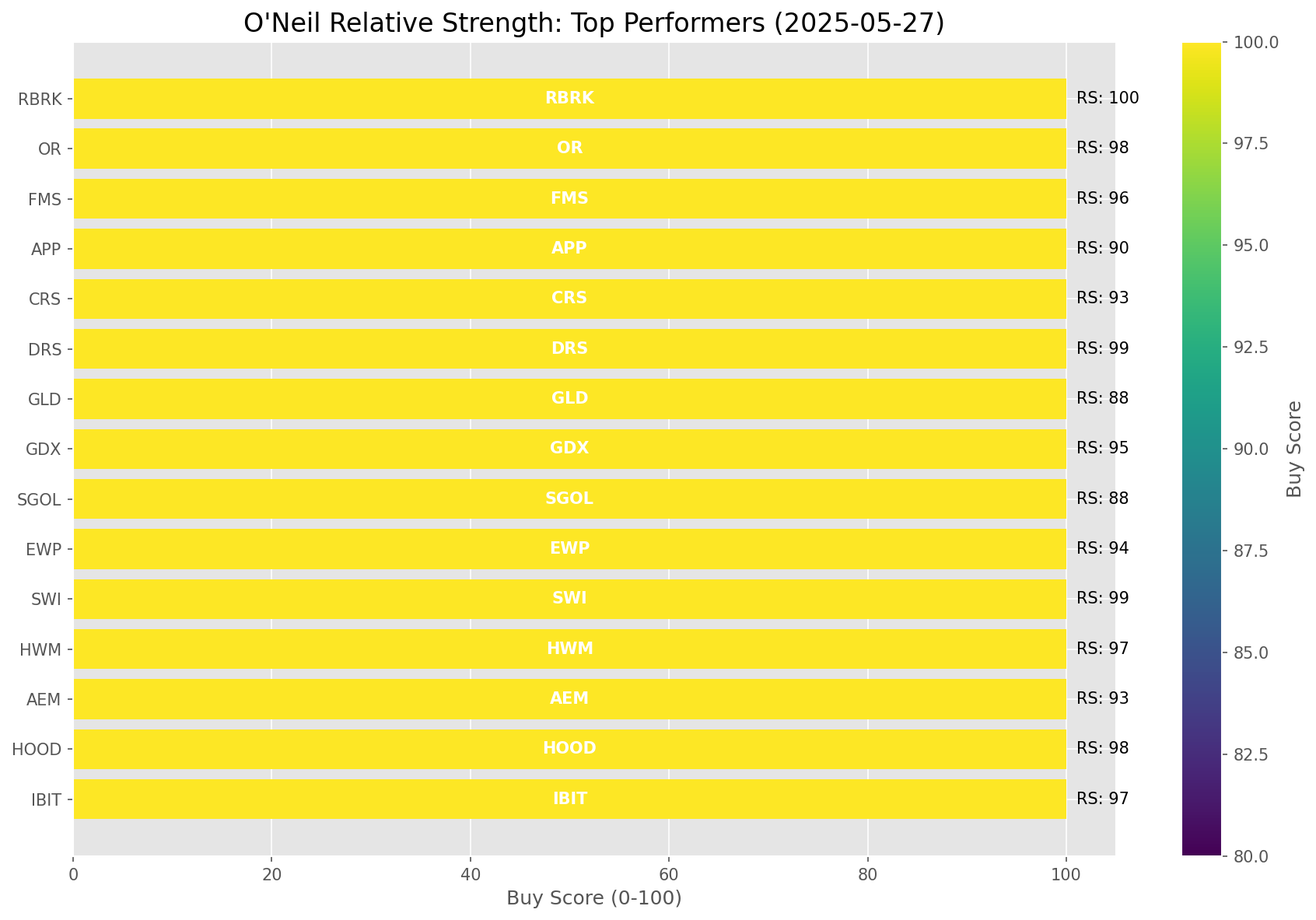
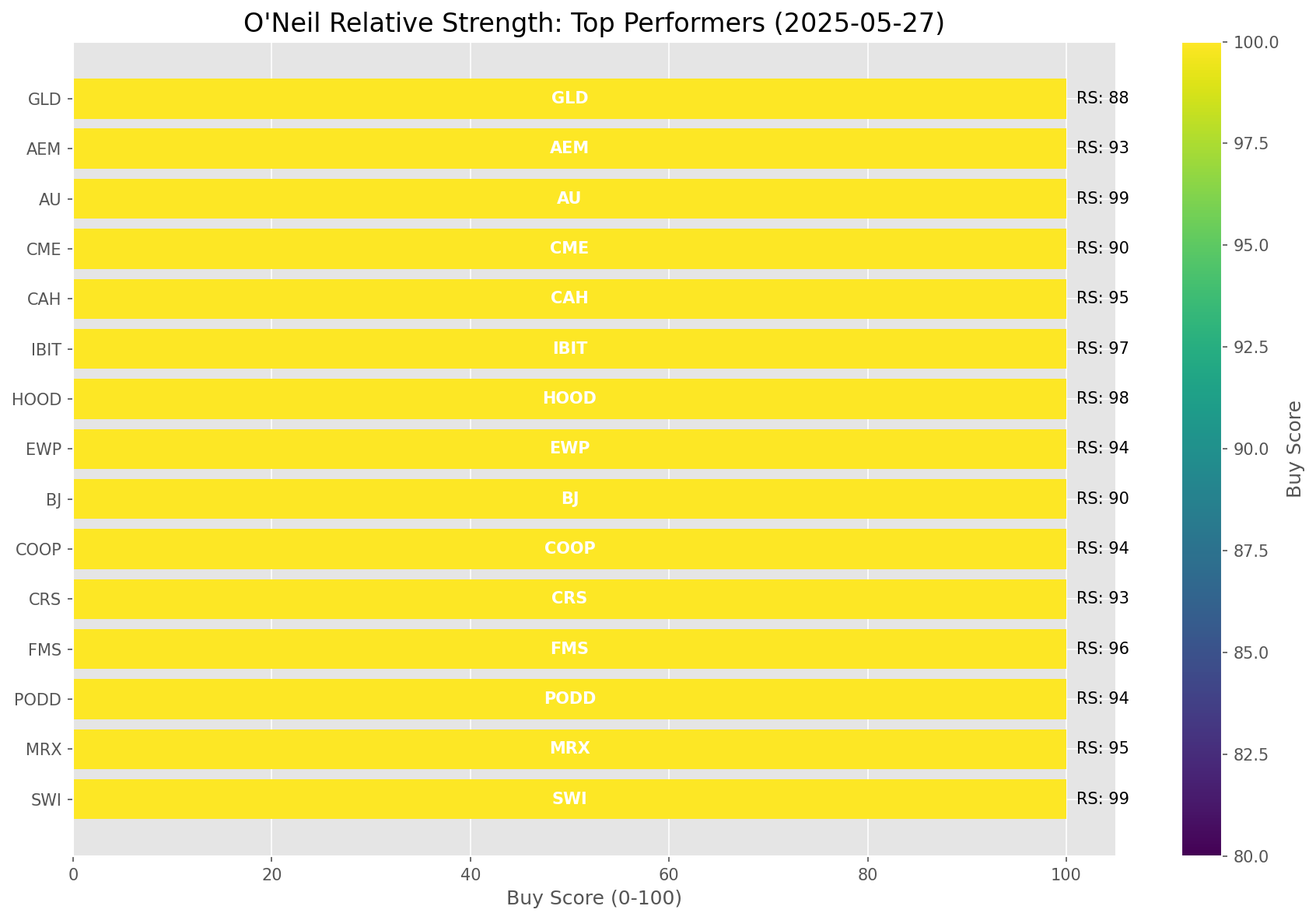
Add market report for 2025-05-27

diff --git a/oneil_relative_strength_report_2025-05-27.md b/oneil_relative_strength_report_2025-05-27.md
@@ -57,11 +57,11 @@ Based on William O'Neil's Relative Strength Methodology
 | [PAVE](https://www.tradingview.com/chart/?symbol=PAVE) | 87.5 | 75.0 | 4.75% | 10d ✓, 50d ✓, 200d ✓ | ↗ | Infrastructure |
 | [SLV](https://www.tradingview.com/chart/?symbol=SLV) | 87.0 | 74.0 | 4.46% | 10d ✓, 50d ✓, 200d ✓ | ↗ | Silver |
 | [ARKK](https://www.tradingview.com/chart/?symbol=ARKK) | 85.0 | 70.0 | 2.82% | 10d ✓, 50d ✓, 200d ✓ | ↗ | Innovation |
-| [XLU](https://www.tradingview.com/chart/?symbol=XLU) | 84.5 | 69.0 | 2.34% | 10d ✓, 50d ✓, 200d ✓ | ↗ | Utilities |
 | [BLOK](https://www.tradingview.com/chart/?symbol=BLOK) | 84.5 | 69.0 | 2.54% | 10d ✓, 50d ✓, 200d ✓ | ↗ | Blockchain & Cryptocurrency |
+| [XLU](https://www.tradingview.com/chart/?symbol=XLU) | 84.5 | 69.0 | 2.34% | 10d ✓, 50d ✓, 200d ✓ | ↗ | Utilities |
 | [AIQ](https://www.tradingview.com/chart/?symbol=AIQ) | 83.5 | 67.0 | 1.75% | 10d ✓, 50d ✓, 200d ✓ | ↗ | Artificial Intelligence & Technology |
-| [IYZ](https://www.tradingview.com/chart/?symbol=IYZ) | 81.5 | 63.0 | 0.50% | 10d ✓, 50d ✓, 200d ✓ | ↗ | Telecommunications |
 | [XLY](https://www.tradingview.com/chart/?symbol=XLY) | 81.5 | 63.0 | 0.62% | 10d ✓, 50d ✓, 200d ✓ | ↗ | Consumer Discretionary |
+| [IYZ](https://www.tradingview.com/chart/?symbol=IYZ) | 81.5 | 63.0 | 0.50% | 10d ✓, 50d ✓, 200d ✓ | ↗ | Telecommunications |
 | [XLP](https://www.tradingview.com/chart/?symbol=XLP) | 81.5 | 63.0 | 0.41% | 10d ✓, 50d ✓, 200d ✓ | ↗ | Consumer Staples |
 | [XLC](https://www.tradingview.com/chart/?symbol=XLC) | 81.0 | 62.0 | 0.31% | 10d ✓, 50d ✓, 200d ✓ | ↗ | Communications |
 | [URA](https://www.tradingview.com/chart/?symbol=URA) | 78.5 | 97.0 | 28.24% | 10d ✓, 50d ✓, 200d ✓ | ↘ | Uranium |
@@ -110,78 +110,78 @@ The following 106 stocks show exceptional relative strength:
 
 | RS Rating | Buy Score | Current Price | Chart | Name | Ticker |
 |-----------|-----------|---------------|-------|------|--------|
-| 100 | 100 | $94.85 | [Chart](https://www.tradingview.com/chart/?symbol=RBRK) | Rubrik, Inc. | RBRK |
-| 100 | 100 | $210.52 | [Chart](https://www.tradingview.com/chart/?symbol=AGX) | Argan, Inc | AGX |
-| 100 | 100 | $38.12 | [Chart](https://www.tradingview.com/chart/?symbol=KTOS) | Kratos Defense & Security Solutions, Inc. | KTOS |
-| 100 | 100 | $23.15 | [Chart](https://www.tradingview.com/chart/?symbol=PRA) | ProAssurance Corporation | PRA |
-| 100 | 100 | $209.00 | [Chart](https://www.tradingview.com/chart/?symbol=DAVE) | Dave Inc. Class A Common Stock | DAVE |
 | 100 | 100 | $110.36 | [Chart](https://www.tradingview.com/chart/?symbol=SEZL) | Sezzle Inc. Common Stock | SEZL |
-| 99 | 100 | $42.50 | [Chart](https://www.tradingview.com/chart/?symbol=DRS) | Leonardo DRS, Inc. Common Stock | DRS |
+| 100 | 100 | $209.00 | [Chart](https://www.tradingview.com/chart/?symbol=DAVE) | Dave Inc. Class A Common Stock | DAVE |
+| 100 | 100 | $38.12 | [Chart](https://www.tradingview.com/chart/?symbol=KTOS) | Kratos Defense & Security Solutions, Inc. | KTOS |
+| 100 | 100 | $210.52 | [Chart](https://www.tradingview.com/chart/?symbol=AGX) | Argan, Inc | AGX |
+| 100 | 100 | $94.85 | [Chart](https://www.tradingview.com/chart/?symbol=RBRK) | Rubrik, Inc. | RBRK |
+| 100 | 100 | $23.15 | [Chart](https://www.tradingview.com/chart/?symbol=PRA) | ProAssurance Corporation | PRA |
 | 99 | 100 | $43.10 | [Chart](https://www.tradingview.com/chart/?symbol=AU) | AngloGold Ashanti plc | AU |
-| 99 | 100 | $471.51 | [Chart](https://www.tradingview.com/chart/?symbol=GEV) | GE Vernova Inc. | GEV |
+| 99 | 100 | $42.50 | [Chart](https://www.tradingview.com/chart/?symbol=DRS) | Leonardo DRS, Inc. Common Stock | DRS |
 | 99 | 100 | $85.43 | [Chart](https://www.tradingview.com/chart/?symbol=RBLX) | Roblox Corporation | RBLX |
+| 99 | 100 | $471.51 | [Chart](https://www.tradingview.com/chart/?symbol=GEV) | GE Vernova Inc. | GEV |
 | 98 | 100 | $66.02 | [Chart](https://www.tradingview.com/chart/?symbol=HOOD) | Robinhood Markets, Inc. Class A Common Stock | HOOD |
-| 98 | 100 | $24.86 | [Chart](https://www.tradingview.com/chart/?symbol=OR) | OR Royalties Inc. | OR |
 | 98 | 100 | $19.78 | [Chart](https://www.tradingview.com/chart/?symbol=SPNT) | SiriusPoint Ltd. | SPNT |
+| 98 | 100 | $24.86 | [Chart](https://www.tradingview.com/chart/?symbol=OR) | OR Royalties Inc. | OR |
 | 98 | 100 | $163.90 | [Chart](https://www.tradingview.com/chart/?symbol=PLMR) | Palomar Holdings, Inc. Common stock | PLMR |
 | 98 | 100 | $72.40 | [Chart](https://www.tradingview.com/chart/?symbol=ULS) | UL Solutions Inc. | ULS |
 | 98 | 100 | $312.91 | [Chart](https://www.tradingview.com/chart/?symbol=CVNA) | Carvana Co. | CVNA |
 | 98 | 100 | $56.91 | [Chart](https://www.tradingview.com/chart/?symbol=SHLD) | Global X Defense Tech ETF | SHLD |
 | 97 | 100 | $62.50 | [Chart](https://www.tradingview.com/chart/?symbol=IBIT) | iShares Bitcoin Trust ETF | IBIT |
-| 97 | 100 | $169.69 | [Chart](https://www.tradingview.com/chart/?symbol=HWM) | Howmet Aerospace Inc. | HWM |
 | 97 | 100 | $31.14 | [Chart](https://www.tradingview.com/chart/?symbol=HODL) | VanEck Bitcoin ETF | HODL |
-| 97 | 100 | $165.24 | [Chart](https://www.tradingview.com/chart/?symbol=SE) | Sea Limited American Depositary Shares, each representing one Class A Ordinary Share | SE |
-| 97 | 100 | $19.44 | [Chart](https://www.tradingview.com/chart/?symbol=MIR) | Mirion Technologies, Inc. | MIR |
-| 97 | 100 | $59.90 | [Chart](https://www.tradingview.com/chart/?symbol=BITB) | Bitwise Bitcoin ETF | BITB |
 | 97 | 100 | $746.08 | [Chart](https://www.tradingview.com/chart/?symbol=AXON) | Axon Enterprise, Inc. Common Stock | AXON |
+| 97 | 100 | $59.90 | [Chart](https://www.tradingview.com/chart/?symbol=BITB) | Bitwise Bitcoin ETF | BITB |
+| 97 | 100 | $165.24 | [Chart](https://www.tradingview.com/chart/?symbol=SE) | Sea Limited American Depositary Shares, each representing one Class A Ordinary Share | SE |
+| 97 | 100 | $169.69 | [Chart](https://www.tradingview.com/chart/?symbol=HWM) | Howmet Aerospace Inc. | HWM |
+| 97 | 100 | $19.44 | [Chart](https://www.tradingview.com/chart/?symbol=MIR) | Mirion Technologies, Inc. | MIR |
 | 97 | 100 | $48.73 | [Chart](https://www.tradingview.com/chart/?symbol=BTC) | Grayscale Bitcoin Mini Trust ETF | BTC |
 | 96 | 100 | $29.49 | [Chart](https://www.tradingview.com/chart/?symbol=FMS) | Fresenius Medical Care AG | FMS |
 | 96 | 100 | $63.72 | [Chart](https://www.tradingview.com/chart/?symbol=GDXJ) | VanEck Junior Gold Miners ETF | GDXJ |
-| 96 | 100 | $35.76 | [Chart](https://www.tradingview.com/chart/?symbol=UTI) | Universal Technical Institute, Inc. | UTI |
 | 96 | 100 | $21.56 | [Chart](https://www.tradingview.com/chart/?symbol=TFPM) | Triple Flag Precious Metals Corp. | TFPM |
+| 96 | 100 | $35.76 | [Chart](https://www.tradingview.com/chart/?symbol=UTI) | Universal Technical Institute, Inc. | UTI |
 | 96 | 100 | $38.50 | [Chart](https://www.tradingview.com/chart/?symbol=AS) | Amer Sports, Inc. | AS |
-| 95 | 100 | $49.77 | [Chart](https://www.tradingview.com/chart/?symbol=GDX) | VanEck Gold Miners ETF | GDX |
-| 95 | 100 | $139.42 | [Chart](https://www.tradingview.com/chart/?symbol=UGL) | ProShares Ultra Gold | UGL |
 | 95 | 100 | $46.11 | [Chart](https://www.tradingview.com/chart/?symbol=MRX) | Marex Group plc Ordinary Shares | MRX |
-| 95 | 100 | $32.03 | [Chart](https://www.tradingview.com/chart/?symbol=PRDO) | Perdoceo Education Corporation | PRDO |
 | 95 | 100 | $154.68 | [Chart](https://www.tradingview.com/chart/?symbol=CAH) | Cardinal Health, Inc. | CAH |
+| 95 | 100 | $49.77 | [Chart](https://www.tradingview.com/chart/?symbol=GDX) | VanEck Gold Miners ETF | GDX |
 | 95 | 100 | $1211.57 | [Chart](https://www.tradingview.com/chart/?symbol=NFLX) | NetFlix Inc | NFLX |
+| 95 | 100 | $32.03 | [Chart](https://www.tradingview.com/chart/?symbol=PRDO) | Perdoceo Education Corporation | PRDO |
 | 95 | 100 | $85.52 | [Chart](https://www.tradingview.com/chart/?symbol=WPM) | Wheaton Precious Metals Corp. Common Stock | WPM |
-| 94 | 100 | $43.53 | [Chart](https://www.tradingview.com/chart/?symbol=EWP) | iShares MSCI Spain ETF | EWP |
+| 95 | 100 | $139.42 | [Chart](https://www.tradingview.com/chart/?symbol=UGL) | ProShares Ultra Gold | UGL |
 | 94 | 100 | $326.64 | [Chart](https://www.tradingview.com/chart/?symbol=PODD) | Insulet Corporation | PODD |
 | 94 | 100 | $133.19 | [Chart](https://www.tradingview.com/chart/?symbol=COOP) | Mr. Cooper Group Inc. Common Stock | COOP |
+| 94 | 100 | $43.53 | [Chart](https://www.tradingview.com/chart/?symbol=EWP) | iShares MSCI Spain ETF | EWP |
 | 94 | 100 | $74.20 | [Chart](https://www.tradingview.com/chart/?symbol=WRB) | W.R. Berkley Corporation | WRB |
 | 94 | 100 | $241.78 | [Chart](https://www.tradingview.com/chart/?symbol=GE) | GE Aerospace | GE |
-| 93 | 100 | $116.30 | [Chart](https://www.tradingview.com/chart/?symbol=AEM) | Agnico Eagle Mines Ltd. | AEM |
 | 93 | 100 | $238.37 | [Chart](https://www.tradingview.com/chart/?symbol=CRS) | Carpenter Technology Corp | CRS |
+| 93 | 100 | $116.30 | [Chart](https://www.tradingview.com/chart/?symbol=AEM) | Agnico Eagle Mines Ltd. | AEM |
 | 93 | 100 | $178.68 | [Chart](https://www.tradingview.com/chart/?symbol=RGLD) | Royal Gold Inc | RGLD |
+| 93 | 100 | $64.29 | [Chart](https://www.tradingview.com/chart/?symbol=SLF) | Sun Life Financial Inc. | SLF |
 | 93 | 100 | $101.02 | [Chart](https://www.tradingview.com/chart/?symbol=JCI) | Johnson Controls International plc | JCI |
-| 92 | 100 | $293.39 | [Chart](https://www.tradingview.com/chart/?symbol=COR) | Cencora, Inc. | COR |
-| 92 | 100 | $64.29 | [Chart](https://www.tradingview.com/chart/?symbol=SLF) | Sun Life Financial Inc. | SLF |
-| 92 | 100 | $34.97 | [Chart](https://www.tradingview.com/chart/?symbol=AHR) | American Healthcare REIT, Inc. | AHR |
 | 92 | 100 | $45.26 | [Chart](https://www.tradingview.com/chart/?symbol=BTI) | British American Tobacco p.l.c. American Depositary Shares, American Depositary Shares, each representing one Ordinary Share | BTI |
-| 91 | 100 | $18.98 | [Chart](https://www.tradingview.com/chart/?symbol=AM) | Antero Midstream Corporation Common Stock | AM |
-| 91 | 100 | $47.66 | [Chart](https://www.tradingview.com/chart/?symbol=EWI) | iShares MSCI Italy ETF | EWI |
-| 91 | 100 | $179.23 | [Chart](https://www.tradingview.com/chart/?symbol=PM) | Philip Morris International Inc. | PM |
-| 91 | 100 | $175.28 | [Chart](https://www.tradingview.com/chart/?symbol=ITA) | iShares U.S. Aerospace & Defense ETF | ITA |
-| 91 | 100 | $30.47 | [Chart](https://www.tradingview.com/chart/?symbol=NTGR) | NETGEAR, Inc. | NTGR |
-| 91 | 100 | $55.66 | [Chart](https://www.tradingview.com/chart/?symbol=RELX) | RELX PLC | RELX |
+| 92 | 100 | $18.98 | [Chart](https://www.tradingview.com/chart/?symbol=AM) | Antero Midstream Corporation Common Stock | AM |
+| 92 | 100 | $293.39 | [Chart](https://www.tradingview.com/chart/?symbol=COR) | Cencora, Inc. | COR |
+| 92 | 100 | $34.97 | [Chart](https://www.tradingview.com/chart/?symbol=AHR) | American Healthcare REIT, Inc. | AHR |
 | 91 | 100 | $34.69 | [Chart](https://www.tradingview.com/chart/?symbol=FDP) | Fresh Del Monte Produce Inc. | FDP |
 | 91 | 100 | $31.82 | [Chart](https://www.tradingview.com/chart/?symbol=EUFN) | iShares MSCI Europe Financials ETF | EUFN |
-| 90 | 100 | $380.91 | [Chart](https://www.tradingview.com/chart/?symbol=APP) | Applovin Corporation Class A Common Stock | APP |
-| 90 | 100 | $207.68 | [Chart](https://www.tradingview.com/chart/?symbol=BAP) | Credicorp LTD | BAP |
-| 90 | 100 | $284.36 | [Chart](https://www.tradingview.com/chart/?symbol=CME) | CME Group Inc. | CME |
+| 91 | 100 | $179.23 | [Chart](https://www.tradingview.com/chart/?symbol=PM) | Philip Morris International Inc. | PM |
+| 91 | 100 | $47.66 | [Chart](https://www.tradingview.com/chart/?symbol=EWI) | iShares MSCI Italy ETF | EWI |
+| 91 | 100 | $30.47 | [Chart](https://www.tradingview.com/chart/?symbol=NTGR) | NETGEAR, Inc. | NTGR |
+| 91 | 100 | $175.28 | [Chart](https://www.tradingview.com/chart/?symbol=ITA) | iShares U.S. Aerospace & Defense ETF | ITA |
+| 91 | 100 | $55.66 | [Chart](https://www.tradingview.com/chart/?symbol=RELX) | RELX PLC | RELX |
 | 90 | 100 | $114.95 | [Chart](https://www.tradingview.com/chart/?symbol=BJ) | BJs Wholesale Club Holdings, Inc. Common Stock | BJ |
+| 90 | 100 | $284.36 | [Chart](https://www.tradingview.com/chart/?symbol=CME) | CME Group Inc. | CME |
+| 90 | 100 | $207.68 | [Chart](https://www.tradingview.com/chart/?symbol=BAP) | Credicorp LTD | BAP |
+| 90 | 100 | $380.91 | [Chart](https://www.tradingview.com/chart/?symbol=APP) | Applovin Corporation Class A Common Stock | APP |
 | 90 | 100 | $42.31 | [Chart](https://www.tradingview.com/chart/?symbol=EWG) | iShares MSCI Germany ETF | EWG |
 | 89 | 100 | $65.45 | [Chart](https://www.tradingview.com/chart/?symbol=GLDM) | SPDR Gold MiniShares | GLDM |
-| 89 | 100 | $32.95 | [Chart](https://www.tradingview.com/chart/?symbol=IAUM) | iShares Gold Trust Micro | IAUM |
-| 89 | 100 | $17.91 | [Chart](https://www.tradingview.com/chart/?symbol=BCS) | Barclays PLC | BCS |
 | 89 | 100 | $49.10 | [Chart](https://www.tradingview.com/chart/?symbol=MRCY) | Mercury Systems Inc. | MRCY |
-| 88 | 100 | $31.53 | [Chart](https://www.tradingview.com/chart/?symbol=SGOL) | abrdn Physical Gold Shares ETF | SGOL |
+| 89 | 100 | $17.91 | [Chart](https://www.tradingview.com/chart/?symbol=BCS) | Barclays PLC | BCS |
+| 89 | 100 | $32.95 | [Chart](https://www.tradingview.com/chart/?symbol=IAUM) | iShares Gold Trust Micro | IAUM |
 | 88 | 100 | $304.50 | [Chart](https://www.tradingview.com/chart/?symbol=GLD) | SPDR Gold Trust, SPDR Gold Shares | GLD |
+| 88 | 100 | $31.53 | [Chart](https://www.tradingview.com/chart/?symbol=SGOL) | abrdn Physical Gold Shares ETF | SGOL |
 | 88 | 100 | $31.86 | [Chart](https://www.tradingview.com/chart/?symbol=OUNZ) | VanEck Merk Gold ETF | OUNZ |
-| 88 | 100 | $32.65 | [Chart](https://www.tradingview.com/chart/?symbol=AAAU) | Goldman Sachs Physical Gold ETF Shares | AAAU |
 | 88 | 100 | $62.31 | [Chart](https://www.tradingview.com/chart/?symbol=IAU) | iShares Gold Trust | IAU |
+| 88 | 100 | $32.65 | [Chart](https://www.tradingview.com/chart/?symbol=AAAU) | Goldman Sachs Physical Gold ETF Shares | AAAU |
 | 88 | 100 | $83.17 | [Chart](https://www.tradingview.com/chart/?symbol=NFG) | National Fuel Gas Co. | NFG |
 | 87 | 100 | $49.62 | [Chart](https://www.tradingview.com/chart/?symbol=GFL) | GFL Environmental Inc. Subordinate Voting Shares | GFL |
 | 89 | 99 | $130.98 | [Chart](https://www.tradingview.com/chart/?symbol=HIG) | The Hartford Insurance Group, Inc. | HIG |
@@ -193,8 +193,8 @@ The following 106 stocks show exceptional relative strength:
 | 84 | 98 | $56.90 | [Chart](https://www.tradingview.com/chart/?symbol=TXNM) | TXNM Energy, Inc. | TXNM |
 | 86 | 97 | $105.63 | [Chart](https://www.tradingview.com/chart/?symbol=DTM) | DT Midstream, Inc. | DTM |
 | 84 | 97 | $214.05 | [Chart](https://www.tradingview.com/chart/?symbol=DRI) | Darden Restaurants, Inc. | DRI |
-| 84 | 97 | $46.04 | [Chart](https://www.tradingview.com/chart/?symbol=ENB) | Enbridge, Inc | ENB |
 | 84 | 97 | $254.91 | [Chart](https://www.tradingview.com/chart/?symbol=RSG) | Republic Services Inc. | RSG |
+| 84 | 97 | $46.04 | [Chart](https://www.tradingview.com/chart/?symbol=ENB) | Enbridge, Inc | ENB |
 | 83 | 97 | $102.66 | [Chart](https://www.tradingview.com/chart/?symbol=AXS) | Axis Capital Holders Limited | AXS |
 | 84 | 96 | $196.84 | [Chart](https://www.tradingview.com/chart/?symbol=LOPE) | Grand Canyon Education, Inc | LOPE |
 | 83 | 96 | $29.18 | [Chart](https://www.tradingview.com/chart/?symbol=CEF) | Sprott Physical Gold and Silver Trust | CEF |
@@ -202,17 +202,17 @@ The following 106 stocks show exceptional relative strength:
 | 85 | 95 | $48.53 | [Chart](https://www.tradingview.com/chart/?symbol=FTS) | Fortis Inc. Common Shares | FTS |
 | 84 | 95 | $14.14 | [Chart](https://www.tradingview.com/chart/?symbol=MUFG) | Mitsubishi UFJ Financial Group, Inc. | MUFG |
 | 84 | 95 | $58.97 | [Chart](https://www.tradingview.com/chart/?symbol=IGF) | iShares Global Infrastructure ETF | IGF |
-| 84 | 95 | $77.59 | [Chart](https://www.tradingview.com/chart/?symbol=USFD) | US Foods Holding Corp. | USFD |
 | 84 | 95 | $316.16 | [Chart](https://www.tradingview.com/chart/?symbol=VRSK) | Verisk Analytics, Inc. Common Stock | VRSK |
+| 84 | 95 | $77.59 | [Chart](https://www.tradingview.com/chart/?symbol=USFD) | US Foods Holding Corp. | USFD |
 | 83 | 95 | $28.09 | [Chart](https://www.tradingview.com/chart/?symbol=IMAX) | Imax Corp | IMAX |
 | 81 | 95 | $653.40 | [Chart](https://www.tradingview.com/chart/?symbol=SPOT) | Spotify Technology S.A. | SPOT |
 | 81 | 93 | $72.44 | [Chart](https://www.tradingview.com/chart/?symbol=CIBR) | First Trust Exchange-Traded Fund II First Trust NASDAQ Cybersecurity ETF | CIBR |
 | 81 | 93 | $43.89 | [Chart](https://www.tradingview.com/chart/?symbol=HMN) | Horace Mann Educators Corporation | HMN |
 | 80 | 93 | $173.25 | [Chart](https://www.tradingview.com/chart/?symbol=THG) | The Hanover Insurance Group, Inc. | THG |
 | 80 | 92 | $28.19 | [Chart](https://www.tradingview.com/chart/?symbol=KMI) | Kinder Morgan, Inc. | KMI |
-| 81 | 91 | $85.97 | [Chart](https://www.tradingview.com/chart/?symbol=SEIC) | SEI Investments Co | SEIC |
 | 81 | 91 | $5451.74 | [Chart](https://www.tradingview.com/chart/?symbol=BKNG) | Booking Holdings Inc. Common Stock | BKNG |
 | 81 | 91 | $78.40 | [Chart](https://www.tradingview.com/chart/?symbol=BBCA) | JPMorgan BetaBuilders Canada ETF | BBCA |
+| 81 | 91 | $85.97 | [Chart](https://www.tradingview.com/chart/?symbol=SEIC) | SEI Investments Co | SEIC |
 | 80 | 91 | $117.61 | [Chart](https://www.tradingview.com/chart/?symbol=CWST) | Casella Waste Systems Inc | CWST |
 | 80 | 90 | $41.46 | [Chart](https://www.tradingview.com/chart/?symbol=ARKF) | ARK Fintech Innovation ETF | ARKF |
 | 80 | 89 | $31.27 | [Chart](https://www.tradingview.com/chart/?symbol=MT) | ArcelorMittal | MT |
@@ -222,54 +222,54 @@ The following 106 stocks show exceptional relative strength:
 
 ## **Sell Recommendations**
 
-The following 110 stocks show deteriorating relative strength:
+The following 108 stocks show deteriorating relative strength:
 
 | RS Rating | Sell Score | Current Price | Chart | Name | Ticker |
 |-----------|------------|---------------|-------|------|--------|
-| 1 | 100 | $10.14 | [Chart](https://www.tradingview.com/chart/?symbol=NRIX) | Nurix Therapeutics, Inc. Common stock | NRIX |
 | 1 | 100 | $13.12 | [Chart](https://www.tradingview.com/chart/?symbol=IART) | Integra LifeSciences Holdings | IART |
+| 1 | 100 | $10.14 | [Chart](https://www.tradingview.com/chart/?symbol=NRIX) | Nurix Therapeutics, Inc. Common stock | NRIX |
 | 2 | 100 | $17.03 | [Chart](https://www.tradingview.com/chart/?symbol=BEAM) | Beam Therapeutics Inc. Common Stock | BEAM |
 | 2 | 100 | $13.99 | [Chart](https://www.tradingview.com/chart/?symbol=DQ) | Daqo New Energy Corp. American Depositary Shares (each representing 5 Ordinary Shares) | DQ |
 | 3 | 100 | $11.83 | [Chart](https://www.tradingview.com/chart/?symbol=LBRT) | Liberty Energy Inc. | LBRT |
 | 3 | 100 | $17.12 | [Chart](https://www.tradingview.com/chart/?symbol=FWRD) | Forward Air Corp | FWRD |
 | 4 | 100 | $10.31 | [Chart](https://www.tradingview.com/chart/?symbol=VREX) | Varex Imaging Corporation Common Stock | VREX |
 | 4 | 100 | $126.45 | [Chart](https://www.tradingview.com/chart/?symbol=KRYS) | Krystal Biotech, Inc. Common Stock | KRYS |
-| 4 | 100 | $13.21 | [Chart](https://www.tradingview.com/chart/?symbol=DNLI) | Denali Therapeutics Inc. Common Stock | DNLI |
 | 4 | 100 | $14.29 | [Chart](https://www.tradingview.com/chart/?symbol=IMVT) | Immunovant, Inc. Common Stock | IMVT |
-| 5 | 100 | $17.14 | [Chart](https://www.tradingview.com/chart/?symbol=VRNT) | Verint Systems Inc | VRNT |
+| 4 | 100 | $13.21 | [Chart](https://www.tradingview.com/chart/?symbol=DNLI) | Denali Therapeutics Inc. Common Stock | DNLI |
 | 5 | 100 | $29.16 | [Chart](https://www.tradingview.com/chart/?symbol=SRDX) | Surmodics, Inc. Common Stock | SRDX |
+| 5 | 100 | $17.14 | [Chart](https://www.tradingview.com/chart/?symbol=VRNT) | Verint Systems Inc | VRNT |
 | 6 | 100 | $122.54 | [Chart](https://www.tradingview.com/chart/?symbol=RGEN) | Repligen Corp | RGEN |
 | 6 | 100 | $15.38 | [Chart](https://www.tradingview.com/chart/?symbol=PENN) | PENN Entertainment, Inc. Common Stock | PENN |
-| 7 | 100 | $12.03 | [Chart](https://www.tradingview.com/chart/?symbol=ARCT) | Arcturus Therapeutics Holdings Inc. Common Stock | ARCT |
-| 7 | 100 | $21.06 | [Chart](https://www.tradingview.com/chart/?symbol=AMRK) | A-Mark Precious Metals, Inc. | AMRK |
 | 7 | 100 | $33.06 | [Chart](https://www.tradingview.com/chart/?symbol=MBIN) | Merchants Bancorp Common Stock | MBIN |
-| 8 | 100 | $23.22 | [Chart](https://www.tradingview.com/chart/?symbol=RPD) | Rapid7, Inc. Common Stock | RPD |
-| 8 | 100 | $18.33 | [Chart](https://www.tradingview.com/chart/?symbol=NVDS) | Investment Managers Series Trust II Tradr 1.5X Short NVDA Daily ETF | NVDS |
+| 7 | 100 | $21.06 | [Chart](https://www.tradingview.com/chart/?symbol=AMRK) | A-Mark Precious Metals, Inc. | AMRK |
+| 7 | 100 | $12.03 | [Chart](https://www.tradingview.com/chart/?symbol=ARCT) | Arcturus Therapeutics Holdings Inc. Common Stock | ARCT |
 | 8 | 100 | $46.52 | [Chart](https://www.tradingview.com/chart/?symbol=RHI) | Robert Half Inc. | RHI |
+| 8 | 100 | $18.33 | [Chart](https://www.tradingview.com/chart/?symbol=NVDS) | Investment Managers Series Trust II Tradr 1.5X Short NVDA Daily ETF | NVDS |
+| 8 | 100 | $23.22 | [Chart](https://www.tradingview.com/chart/?symbol=RPD) | Rapid7, Inc. Common Stock | RPD |
 | 9 | 100 | $17.31 | [Chart](https://www.tradingview.com/chart/?symbol=APA) | APA Corporation Common Stock | APA |
 | 9 | 100 | $45.20 | [Chart](https://www.tradingview.com/chart/?symbol=LINE) | Lineage, Inc. Common Stock | LINE |
 | 10 | 100 | $91.15 | [Chart](https://www.tradingview.com/chart/?symbol=CHRD) | Chord Energy Corporation Common Stock | CHRD |
-| 10 | 100 | $40.92 | [Chart](https://www.tradingview.com/chart/?symbol=ASO) | Academy Sports and Outdoors, Inc. | ASO |
 | 10 | 100 | $18.87 | [Chart](https://www.tradingview.com/chart/?symbol=PDFS) | PDF Solutions Inc | PDFS |
+| 10 | 100 | $40.92 | [Chart](https://www.tradingview.com/chart/?symbol=ASO) | Academy Sports and Outdoors, Inc. | ASO |
 | 13 | 100 | $10.34 | [Chart](https://www.tradingview.com/chart/?symbol=CMRE) | Costamare Inc. | CMRE |
 | 13 | 100 | $15.36 | [Chart](https://www.tradingview.com/chart/?symbol=DXC) | DXC Technology Company | DXC |
 | 21 | 100 | $11.12 | [Chart](https://www.tradingview.com/chart/?symbol=GES) | Guess?, Inc. | GES |
 | 4 | 99 | $29.41 | [Chart](https://www.tradingview.com/chart/?symbol=TWST) | Twist Bioscience Corporation Common Stock | TWST |
-| 7 | 99 | $10.04 | [Chart](https://www.tradingview.com/chart/?symbol=CWK) | Cushman & Wakefield plc Ordinary Shares | CWK |
 | 7 | 99 | $58.79 | [Chart](https://www.tradingview.com/chart/?symbol=ALB) | Albemarle Corporation | ALB |
 | 7 | 99 | $79.67 | [Chart](https://www.tradingview.com/chart/?symbol=WHR) | Whirlpool Corp. | WHR |
+| 7 | 98 | $10.04 | [Chart](https://www.tradingview.com/chart/?symbol=CWK) | Cushman & Wakefield plc Ordinary Shares | CWK |
 | 10 | 98 | $55.29 | [Chart](https://www.tradingview.com/chart/?symbol=ASGN) | ASGN Incorporated | ASGN |
 | 10 | 98 | $82.51 | [Chart](https://www.tradingview.com/chart/?symbol=KSPI) | Joint Stock Company Kaspi.kz American Depository Shares | KSPI |
 | 13 | 98 | $219.99 | [Chart](https://www.tradingview.com/chart/?symbol=OIH) | VanEck Oil Services ETF | OIH |
 | 13 | 98 | $200.21 | [Chart](https://www.tradingview.com/chart/?symbol=AAPL) | Apple Inc. | AAPL |
 | 15 | 98 | $58.11 | [Chart](https://www.tradingview.com/chart/?symbol=BMRN) | BioMarin Pharmaceuticals Inc | BMRN |
 | 15 | 97 | $35.08 | [Chart](https://www.tradingview.com/chart/?symbol=RARE) | Ultragenyx Pharmaceutical Inc. | RARE |
-| 6 | 96 | $14.54 | [Chart](https://www.tradingview.com/chart/?symbol=INMD) | InMode Ltd. Ordinary Shares | INMD |
 | 11 | 96 | $20.85 | [Chart](https://www.tradingview.com/chart/?symbol=UCO) | ProShares Ultra Bloomberg Crude Oil | UCO |
 | 11 | 96 | $26.36 | [Chart](https://www.tradingview.com/chart/?symbol=WERN) | Werner Enterprises Inc | WERN |
 | 12 | 96 | $12.30 | [Chart](https://www.tradingview.com/chart/?symbol=NOV) | NOV Inc. | NOV |
 | 15 | 96 | $44.16 | [Chart](https://www.tradingview.com/chart/?symbol=MTDR) | MATADOR RESOURCES COMPANY | MTDR |
 | 5 | 95 | $143.15 | [Chart](https://www.tradingview.com/chart/?symbol=INSP) | Inspire Medical Systems, Inc. | INSP |
+| 6 | 95 | $14.54 | [Chart](https://www.tradingview.com/chart/?symbol=INMD) | InMode Ltd. Ordinary Shares | INMD |
 | 25 | 95 | $14.78 | [Chart](https://www.tradingview.com/chart/?symbol=FXN) | First Trust Energy AlphaDEX Fund | FXN |
 | 13 | 94 | $11.92 | [Chart](https://www.tradingview.com/chart/?symbol=PBR) | PETROLEO BRASILEIRO S.A.-PETROBRAS ADS (REP 1 COMMON SHARE) | PBR |
 | 9 | 93 | $28.14 | [Chart](https://www.tradingview.com/chart/?symbol=KYMR) | Kymera Therapeutics, Inc. Common Stock | KYMR |
@@ -277,8 +277,8 @@ The following 110 stocks show deteriorating relative strength:
 | 11 | 91 | $11.78 | [Chart](https://www.tradingview.com/chart/?symbol=APLE) | Apple Hospitality REIT, Inc. | APLE |
 | 12 | 91 | $48.86 | [Chart](https://www.tradingview.com/chart/?symbol=ERX) | Direxion Daily Energy Bull 2X Shares | ERX |
 | 16 | 91 | $32.57 | [Chart](https://www.tradingview.com/chart/?symbol=TENB) | Tenable Holdings, Inc. | TENB |
-| 20 | 91 | $30.87 | [Chart](https://www.tradingview.com/chart/?symbol=BAX) | Baxter International Inc. | BAX |
 | 20 | 91 | $10.02 | [Chart](https://www.tradingview.com/chart/?symbol=LBTYK) | Liberty Global Ltd. Class C Common Shares | LBTYK |
+| 20 | 91 | $30.87 | [Chart](https://www.tradingview.com/chart/?symbol=BAX) | Baxter International Inc. | BAX |
 | 10 | 90 | $42.07 | [Chart](https://www.tradingview.com/chart/?symbol=VCEL) | Vericel Corporation | VCEL |
 | 14 | 90 | $15.05 | [Chart](https://www.tradingview.com/chart/?symbol=SAFE) | Safehold Inc. | SAFE |
 | 16 | 90 | $10.06 | [Chart](https://www.tradingview.com/chart/?symbol=SEMR) | SEMrush Holdings, Inc. | SEMR |
@@ -291,13 +291,13 @@ The following 110 stocks show deteriorating relative strength:
 | 17 | 88 | $89.54 | [Chart](https://www.tradingview.com/chart/?symbol=BCC) | Boise Cascade Company | BCC |
 | 14 | 87 | $56.26 | [Chart](https://www.tradingview.com/chart/?symbol=TRNO) | Terreno Realty Corporation | TRNO |
 | 17 | 87 | $12.41 | [Chart](https://www.tradingview.com/chart/?symbol=PMT) | PennyMac Mortgage Investment Trust | PMT |
-| 21 | 87 | $65.81 | [Chart](https://www.tradingview.com/chart/?symbol=MTH) | Meritage Homes Corporation | MTH |
 | 24 | 87 | $17.48 | [Chart](https://www.tradingview.com/chart/?symbol=STR) | Sitio Royalties Corp. | STR |
 | 26 | 87 | $14.39 | [Chart](https://www.tradingview.com/chart/?symbol=OCSL) | Oaktree Specialty Lending Corporation | OCSL |
 | 29 | 87 | $27.66 | [Chart](https://www.tradingview.com/chart/?symbol=TX) | Ternium S.A. American Depositary Shares | TX |
 | 19 | 86 | $11.11 | [Chart](https://www.tradingview.com/chart/?symbol=NEWT) | NewtekOne, Inc. Common Stock | NEWT |
-| 21 | 86 | $18.13 | [Chart](https://www.tradingview.com/chart/?symbol=UE) | UBRAN EDGE PROPERTIES | UE |
+| 21 | 86 | $65.81 | [Chart](https://www.tradingview.com/chart/?symbol=MTH) | Meritage Homes Corporation | MTH |
 | 21 | 86 | $104.59 | [Chart](https://www.tradingview.com/chart/?symbol=MHK) | Mohawk Industries, Inc. | MHK |
+| 21 | 86 | $18.13 | [Chart](https://www.tradingview.com/chart/?symbol=UE) | UBRAN EDGE PROPERTIES | UE |
 | 26 | 86 | $16.20 | [Chart](https://www.tradingview.com/chart/?symbol=PD) | PagerDuty, Inc. | PD |
 | 30 | 86 | $10.79 | [Chart](https://www.tradingview.com/chart/?symbol=NMFC) | NEW MOUNTAIN FINANCE CORPORATION | NMFC |
 | 17 | 85 | $49.03 | [Chart](https://www.tradingview.com/chart/?symbol=FR) | First Industrial Realty Trust, Inc. | FR |
@@ -306,18 +306,17 @@ The following 110 stocks show deteriorating relative strength:
 | 24 | 84 | $12.83 | [Chart](https://www.tradingview.com/chart/?symbol=ZUMZ) | Zumiez Inc. | ZUMZ |
 | 23 | 83 | $10.47 | [Chart](https://www.tradingview.com/chart/?symbol=AVO) | Mission Produce, Inc. Common Stock | AVO |
 | 24 | 83 | $36.49 | [Chart](https://www.tradingview.com/chart/?symbol=STBA) | S&T Bancorp Inc | STBA |
-| 18 | 82 | $39.42 | [Chart](https://www.tradingview.com/chart/?symbol=PCH) | PotlatchDeltic Corporation Common Stock | PCH |
 | 23 | 82 | $13.56 | [Chart](https://www.tradingview.com/chart/?symbol=BSM) | Black Stone Minerals, L.P. | BSM |
 | 25 | 82 | $16.47 | [Chart](https://www.tradingview.com/chart/?symbol=MLNK) | MeridianLink, Inc. | MLNK |
-| 23 | 81 | $29.15 | [Chart](https://www.tradingview.com/chart/?symbol=BP) | BP p.l.c. | BP |
 | 26 | 81 | $189.18 | [Chart](https://www.tradingview.com/chart/?symbol=DHR) | Danaher Corporation | DHR |
+| 23 | 80 | $29.15 | [Chart](https://www.tradingview.com/chart/?symbol=BP) | BP p.l.c. | BP |
 | 29 | 80 | $13.27 | [Chart](https://www.tradingview.com/chart/?symbol=MRTN) | Marten Transport Ltd | MRTN |
 | 27 | 79 | $38.58 | [Chart](https://www.tradingview.com/chart/?symbol=MLTX) | MoonLake Immunotherapeutics Class A Ordinary Shares | MLTX |
 | 32 | 79 | $14.97 | [Chart](https://www.tradingview.com/chart/?symbol=VRE) | Veris Residential, Inc. | VRE |
-| 27 | 78 | $38.21 | [Chart](https://www.tradingview.com/chart/?symbol=KSA) | iShares MSCI Saudi Arabia ETF | KSA |
 | 33 | 78 | $10.54 | [Chart](https://www.tradingview.com/chart/?symbol=CELC) | Celcuity Inc. Common Stock | CELC |
 | 25 | 77 | $14.25 | [Chart](https://www.tradingview.com/chart/?symbol=BMEZ) | BlackRock Health Sciences Term Trust | BMEZ |
 | 27 | 77 | $122.24 | [Chart](https://www.tradingview.com/chart/?symbol=SUI) | Sun Communities, Inc | SUI |
+| 27 | 77 | $38.21 | [Chart](https://www.tradingview.com/chart/?symbol=KSA) | iShares MSCI Saudi Arabia ETF | KSA |
 | 33 | 77 | $35.72 | [Chart](https://www.tradingview.com/chart/?symbol=SU) | Suncor Energy, Inc. | SU |
 | 29 | 76 | $15.92 | [Chart](https://www.tradingview.com/chart/?symbol=ELME) | Elme Communities | ELME |
 | 31 | 76 | $12.31 | [Chart](https://www.tradingview.com/chart/?symbol=WSR) | Whitestone REIT | WSR |
@@ -331,7 +330,6 @@ The following 110 stocks show deteriorating relative strength:
 | 36 | 70 | $12.07 | [Chart](https://www.tradingview.com/chart/?symbol=DSL) | DOUBLELINE INCOME SOLUTIONS FUND | DSL |
 | 34 | 69 | $11.87 | [Chart](https://www.tradingview.com/chart/?symbol=NZF) | Nuveen Municipal Credit Income Fund | NZF |
 | 36 | 69 | $62.21 | [Chart](https://www.tradingview.com/chart/?symbol=BLKB) | Blackbaud, Inc. | BLKB |
-| 36 | 68 | $18.73 | [Chart](https://www.tradingview.com/chart/?symbol=PFFD) | Global X U.S. Preferred ETF | PFFD |
 | 38 | 68 | $10.50 | [Chart](https://www.tradingview.com/chart/?symbol=SCS) | Steelcase, Inc. | SCS |
 | 36 | 67 | $22.12 | [Chart](https://www.tradingview.com/chart/?symbol=MGY) | Magnolia Oil & Gas Corporation Class A Common Stock | MGY |
 | 37 | 65 | $103.52 | [Chart](https://www.tradingview.com/chart/?symbol=XOM) | Exxon Mobil Corporation | XOM |
